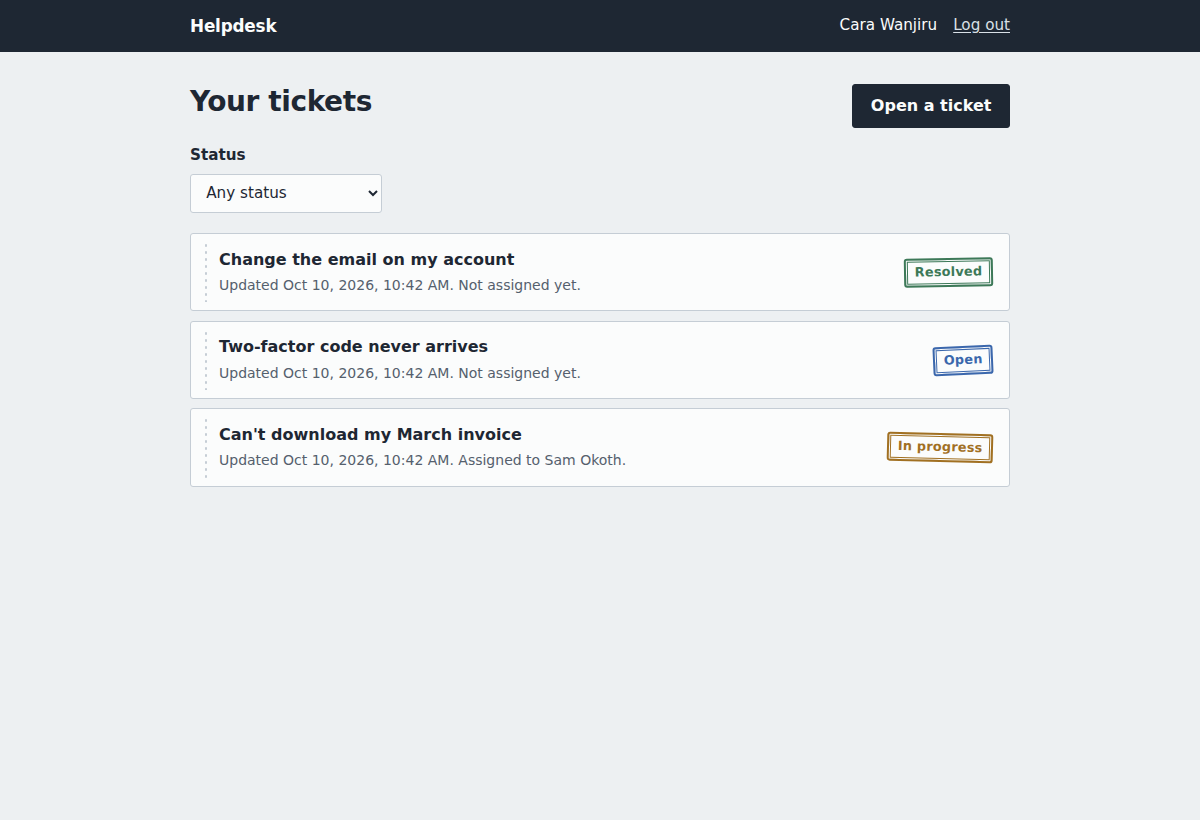
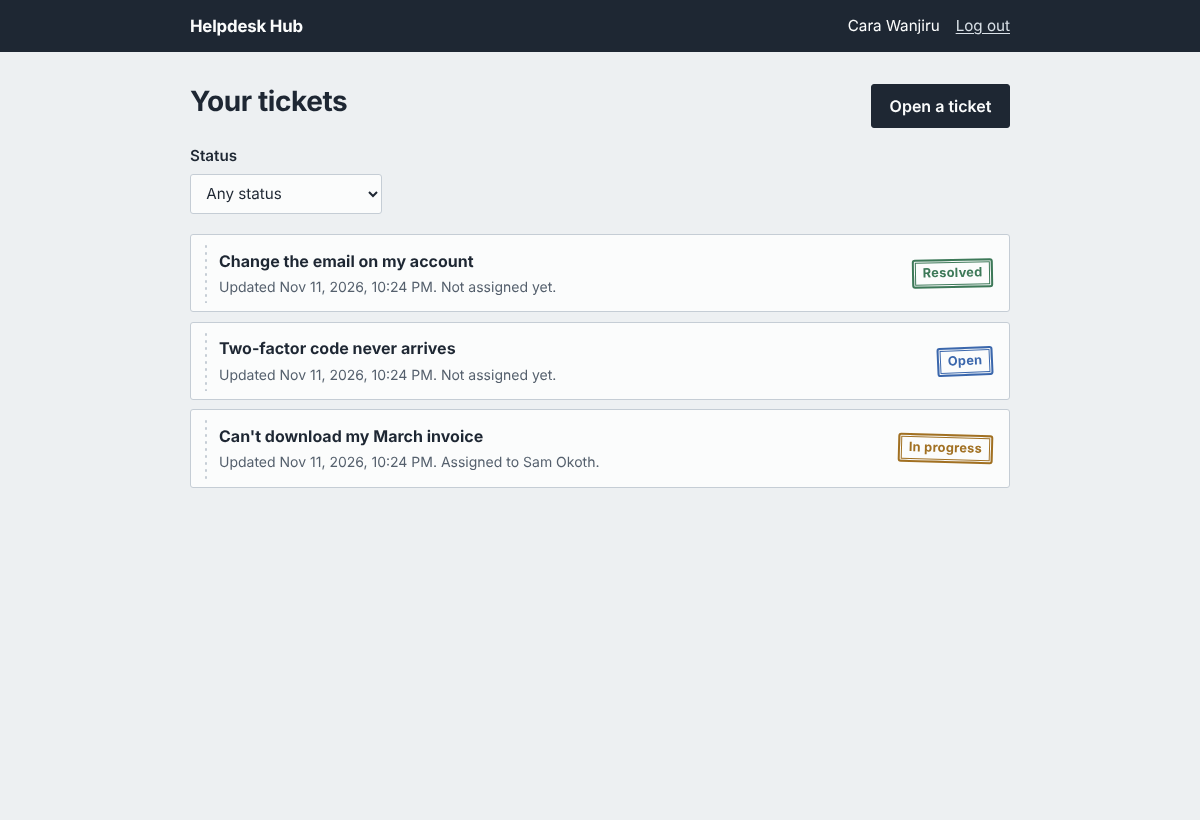
Update README and screenshots for Helpdesk Hub

diff --git a/README.md b/README.md
@@ -1,13 +1,10 @@
-# Support Ticket System
+# Helpdesk Hub
 
-![CI](https://github.com/quantamsage/support-ticket-system/actions/workflows/ci.yml/badge.svg)
+![CI](https://github.com/quantamsage/helpdesk-hub/actions/workflows/ci.yml/badge.svg)
 
-A helpdesk where customers open support tickets and staff manage them. Customers see and follow only their own tickets; staff see every ticket, assign them, change their status and reply in a comment thread.
+A helpdesk where customers open support tickets and staff manage them. Customers see and follow only their own tickets; staff see every ticket, set its priority, assign it, change its status, reply in the thread and leave internal notes, with response deadlines that flag tickets waiting too long.
 
 The point of the project is **role-based access control enforced on the server**: one backend serves two kinds of users with different permissions, and every rule is checked by the API and the database, not by the UI.
-
-
-> The backend runs on Render's free tier, which sleeps after 15 minutes without traffic. The first request after that can take up to a minute.
 
 ## Screenshots
 
@@ -15,32 +12,34 @@ The point of the project is **role-based access control enforced on the server**
 |---|---|
 | ![Staff queue with filters and status stamps](docs/screenshots/staff-queue.png) | ![Ticket with staff controls and conversation](docs/screenshots/ticket-staff-view.png) |
 
-| Customer's tickets | Mobile |
-|---|---|
-| ![A customer's own tickets](docs/screenshots/customer-tickets.png) | ![Staff queue on a phone](docs/screenshots/mobile-queue.png) |
+| Same ticket, customer view (internal note hidden) | Customer's tickets | Mobile |
+|---|---|---|
+| ![Ticket as the customer sees it](docs/screenshots/ticket-customer-view.png) | ![A customer's own tickets](docs/screenshots/customer-tickets.png) | ![Staff queue on a phone](docs/screenshots/mobile-queue.png) |
 
 ## Features
 
 - **Customers:** register, log in, open tickets, follow their status, reply in the thread.
 - **Staff:** see all tickets, filter by status or assignee ("me", "nobody yet", a colleague), assign tickets, change status (Open, In progress, Resolved), reply.
+- **Priority and response deadlines (SLA):** staff set each ticket to Low, Normal, High or Urgent. Each priority has a first-response target (72 h, 24 h, 8 h, 2 h). Tickets with no staff reply past their deadline are flagged **overdue**, and the queue can be filtered by priority and to overdue tickets only. The first public staff reply stops the clock; changing priority moves the deadline.
+- **Internal notes:** staff can add notes to a ticket that the customer never sees. They're filtered out in SQL for customers, customers can't create them (403), and they don't count as a reply or change the ticket's "updated" time.
 - **Ownership:** a customer who requests someone else's ticket gets "not found", exactly as if it didn't exist.
 - **No self-promotion to staff:** public sign-up always creates a customer. Staff accounts are created by the owner with a script, and the app's database role is physically unable to create them.
 - One consistent JSON error format, friendly messages in the UI, no stack traces or SQL ever shown.
 
 ## Tech stack
 
-- **Frontend:** Next.js 16 (App Router), TypeScript, plain CSS. Deployed on Vercel.
-- **Backend:** FastAPI, Pydantic, psycopg 3 (connection pool), PyJWT, Argon2. Deployed on Render (Frankfurt).
-- **Database:** PostgreSQL on Supabase, connected through the Session pooler.
-- **Tests:** pytest against a real PostgreSQL (64 tests), Playwright browser walkthrough, GitHub Actions CI.
+- **Frontend:** Next.js 16 (App Router), TypeScript, plain CSS.
+- **Backend:** FastAPI, Pydantic, psycopg 3 (connection pool), PyJWT, Argon2.
+- **Database:** PostgreSQL 16 (works with any PostgreSQL 13+, including Supabase).
+- **Tests:** pytest against a real PostgreSQL (75 tests), Playwright browser walkthrough, GitHub Actions CI.
 
 ## Architecture
 
 ```mermaid
 flowchart LR
-    B["Browser<br/>Next.js on Vercel"] -- "HTTPS + JSON<br/>Authorization: Bearer JWT" --> A["FastAPI on Render<br/>validation, auth, role and ownership checks"]
-    A -- "parameterised SQL<br/>as restricted role support_app" --> D[("PostgreSQL on Supabase<br/>support_users, support_tickets, support_comments")]
-    O["Owner, locally<br/>create_staff.py"] -. "owner connection<br/>(never deployed)" .-> D
+    B["Browser<br/>Next.js"] -- "HTTPS + JSON<br/>Authorization: Bearer JWT" --> A["FastAPI<br/>validation, auth, role and ownership checks"]
+    A -- "parameterised SQL<br/>as restricted role support_app" --> D[("PostgreSQL<br/>support_users, support_tickets, support_comments")]
+    O["Owner, locally<br/>create_staff.py"] -. "owner connection" .-> D
 ```
 
 The browser never talks to the database. The backend is the only thing that does, and it only returns JSON. The API contract in [`docs/openapi.yaml`](docs/openapi.yaml) was written before any code, and a test fails if the backend drifts from it.
@@ -85,7 +84,7 @@ To limit the XSS risk: React escapes everything it renders, tokens expire after 
 ## Project structure
 
 ```
-support-ticket-system/
+helpdesk-hub/
 ├── docs/
 │   ├── openapi.yaml          API contract (written first)
 │   └── screenshots/
@@ -102,7 +101,7 @@ support-ticket-system/
 │   │   ├── schemas.py        Pydantic request and response models
 │   │   ├── repo.py           all SQL
 │   │   └── routers/          auth, staff, tickets (+ comments)
-│   ├── tests/                contract, auth, access, validation and error tests
+│   ├── tests/                contract, auth, access, validation, priority/SLA and note tests
 │   ├── create_staff.py       owner-only script to add staff
 │   └── requirements.txt
 ├── frontend/
@@ -111,7 +110,6 @@ support-ticket-system/
 │   ├── src/lib/              api client, token storage, types
 │   └── next.config.ts        security headers and CSP
 ├── e2e/walkthrough.py        browser walkthrough (Playwright)
-├── render.yaml               Render deploy config
 └── .github/workflows/ci.yml  tests on every push
 ```
 
@@ -137,7 +135,7 @@ python -m venv .venv
 .\.venv\Scripts\Activate.ps1
 pip install -r requirements-dev.txt
 copy .env.example .env      # then fill it in
-python -m pytest            # 64 tests
+python -m pytest            # 75 tests
 python create_staff.py --email sam@example.com --name "Sam"
 uvicorn app.main:create_app --factory --reload
 ```
@@ -153,28 +151,24 @@ npm run dev
 
 Open http://localhost:3000. Register to get a customer account; log in as the staff account you created to see the staff view.
 
-## Deploying
+### How the response deadline works
 
-1. **Supabase:** in the SQL Editor, run `db/schema.sql`, then `ALTER ROLE support_app WITH LOGIN PASSWORD '...'`. Keep the Data API off.
-2. **Render:** New > Blueprint, pick this repo. Set `DATABASE_URL` to the Session pooler string with user `support_app.<project-ref>`, and `CORS_ORIGINS` to the Vercel URL once you have it.
-3. **Vercel:** import the repo, set the root directory to `frontend` and `NEXT_PUBLIC_API_URL` to the Render URL.
-4. Create staff by running `create_staff.py` locally with `ADMIN_DATABASE_URL` pointing at Supabase's owner connection.
+`db/schema.sql` defines `support_sla_hours(priority)`, and every ticket query computes `due_at = created_at + that many hours` and `overdue` in SQL, so the list, the ticket page and the filter always agree. The app's database role can update `priority` and `first_response_at` but not `created_at`, so the clock can't be reset from the app (a test checks this).
 
 ## Limitations
 
-- **Free-tier cold starts:** the Render backend sleeps when idle, so the first request can take up to a minute.
 - **The frontend CSP allows inline scripts,** because Next.js adds small inline scripts to each page. Nonce-based CSP would remove this but makes every page server-rendered.
 - **No login rate limiting,** so passwords could be guessed slowly. Argon2 makes each attempt expensive, but a limiter is still needed.
 - **No refresh tokens:** you're logged out after 30 minutes and log in again.
 - **Ownership is enforced in the backend, not with per-user row-level security,** because every request uses the same database role. RLS is on, but it only blocks other database roles.
-- **Only the production Vercel URL is allowed by CORS,** so Vercel preview deployments can't call the API.
+- **Deadlines count calendar hours,** not business hours, and there's no notification when a ticket goes overdue.
 - **No email notifications,** so customers have to check the ticket for replies.
 
 ## Future improvements
 
 - Email notifications for new replies and status changes
 - Rate limiting on login and registration
-- Ticket priority and categories, and internal staff-only notes
+- Ticket categories, and business-hours SLAs with overdue alerts
 - File attachments (screenshots of the problem)
 - `httpOnly` cookie sessions behind a shared domain
 - Audit log of status and assignee changes
